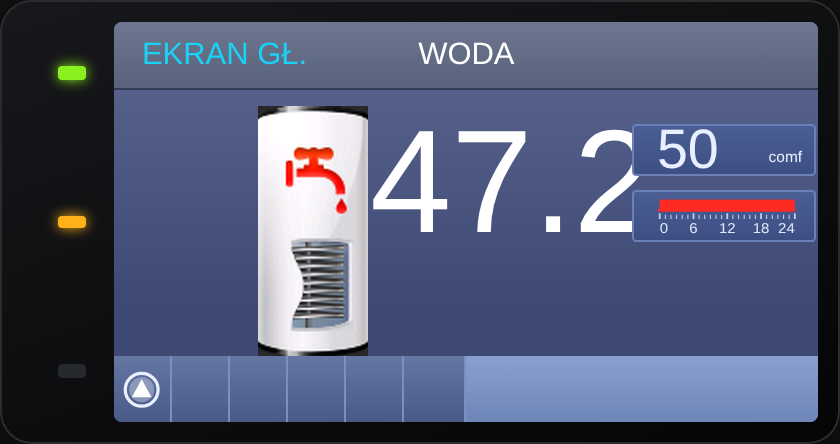
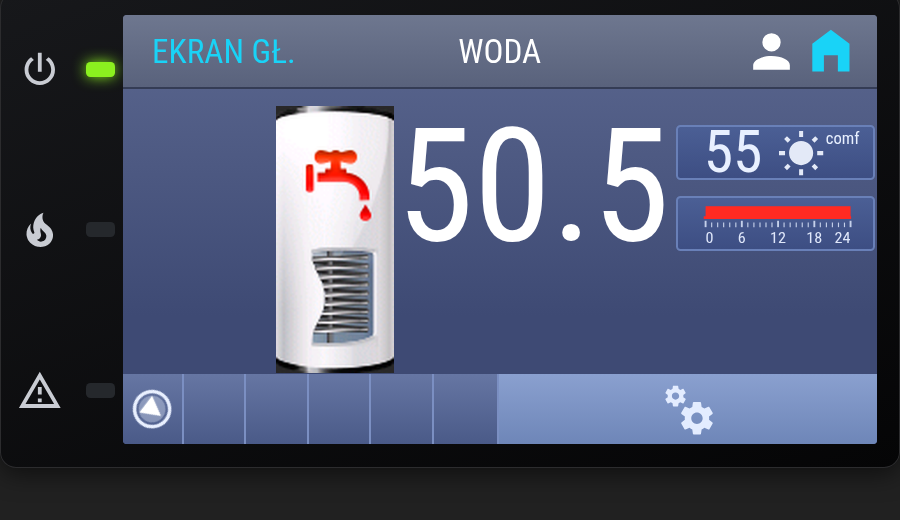
README: nowe zrzuty ekranow (14), szybki start z secrets.yaml
Claude-Session: https://claude.ai/code/session_016ptH2Szcoakmtujhjq9oxA

diff --git a/README.md b/README.md
@@ -8,7 +8,7 @@ Projekt stworzony przez Romana Gorza (pomysł, kierunek, testy na własnej insta
 
 > ⚠ Projekt nieoficjalny – nie zastępuje produktów Estyma. Używasz na własną odpowiedzialność; firmware tylko czyta rejestry kotła, ale podłączenie do magistrali CAN zawsze robisz sam.
 
-> Zrzuty ekranu pochodzą z danych testowych (nie z działającego kotła).
+> Zrzuty ekranu pochodzą z karty lite 2.1 w Home Assistant, z danymi z kotła (karta tylko odczytuje).
 
 | Ekran główny | Paliwo | Ogrzewanie 1 (CO) |
 |---|---|---|
@@ -18,21 +18,52 @@ Projekt stworzony przez Romana Gorza (pomysł, kierunek, testy na własnej insta
 |---|---|---|
 | ![CWU](docs/img/04-water.png) | ![Palnik](docs/img/05-burn.png) | ![Menu](docs/img/06-menu.png) |
 
+| Kocioł | Nastawy palnika | Nastawy CO |
+|---|---|---|
+| ![Kocioł](docs/img/07-boiler.png) | ![Palnik](docs/img/08-burner-settings.png) | ![CO](docs/img/09-heat-settings.png) |
+
+| Nastawy CWU | Informacje | Historia alarmów |
+|---|---|---|
+| ![CWU](docs/img/10-water-settings.png) | ![Info](docs/img/11-info.png) | ![Alarmy](docs/img/12-alarms.png) |
+
+| Harmonogram | Szybkie ustawienia (podgląd) |
+|---|---|
+| ![Harmonogram](docs/img/13-schedule.png) | ![Szybkie](docs/img/14-quick.png) |
+
 ## Spis treści
 1. [Co dostajesz](#co-dostajesz)
-2. [Dolny pasek ekranu głównego](#dolny-pasek-ekranu-głównego)
-3. [Sprzęt](#sprzęt)
-4. [Firmware – instalacja](#firmware--instalacja)
-5. [Karta – instalacja (HACS)](#karta--instalacja-hacs)
-6. [Aktualizacje](#aktualizacje)
-7. [Rozwiązywanie problemów](#rozwiązywanie-problemów)
-8. [Struktura repozytorium](#struktura-repozytorium)
+2. [Szybki start – od zera do działającej karty](#szybki-start--od-zera-do-działającej-karty)
+3. [Dolny pasek ekranu głównego](#dolny-pasek-ekranu-głównego)
+4. [Sprzęt](#sprzęt)
+5. [Firmware – instalacja](#firmware--instalacja)
+6. [Karta – instalacja (HACS)](#karta--instalacja-hacs)
+7. [Aktualizacje](#aktualizacje)
+8. [Rozwiązywanie problemów](#rozwiązywanie-problemów)
+9. [Struktura repozytorium](#struktura-repozytorium)
 
 ## Co dostajesz
 - **Karta** `custom:pelletcan-card-lite`: ekran główny, okno **Paliwo** (zapełnienie zbiornika), **Ogrzewanie 1 (CO)**, **Woda (CWU)**, **Palnik** oraz **Menu** z ekranami Kocioł, Palnik, Ogrzewanie obwód 1, Ciepła woda, Informacje i Alarmy – tylko poziom podstawowy, bez „Poziom menu”. Zero edycji: do ekranów, trybu ogrzewania i harmonogramu można wejść, ale nic nie da się zmienić.
 - **Firmware** w dwóch plikach: `esphome/PelletCAN_lite.yaml` (ten wgrywasz do ESP) i `esphome/PelletCAN_lite_packages.yaml` (rdzeń, ściągany z GitHuba przy kompilacji). Jeden obieg CO, bez usług zapisu.
 
 Potrzebujesz pełnej wersji (zapis nastaw, harmonogramy, test wyjść, historia alarmów)? Zobacz [PelletCAN](https://github.com/GieOeRZet/PelletCAN).
+
+## Szybki start – od zera do działającej karty
+Czego potrzebujesz: Home Assistant z dodatkiem **ESPHome** (Ustawienia → Dodatki), zainstalowanego **HACS**, płytki XIAO ESP32-C6 z modułem CAN (patrz [Sprzęt](#sprzęt)) i kabla USB-C do pierwszego wgrania.
+
+1. **Podłącz sprzęt** do magistrali CAN kotła (CAN-H, CAN-L, masa) i do zasilania 5 V. Kocioł musi mieć włączony panel Igneo Touch.
+2. **Plik `secrets.yaml`** – w ESPHome (przycisk **Secrets** w prawym górnym rogu) wklej i uzupełnij:
+   ```yaml
+   wifi_ssid_iot: "NAZWA_SIECI"                 # sieć 2,4 GHz (ESP32-C6 nie widzi 5 GHz)
+   wifi_pass: "HASLO_WIFI"
+   esp_api_key_tekla_CAN: "KLUCZ_API"           # 32 bajty w base64, patrz niżej
+   ota_pass: "HASLO_OTA"                        # dowolne hasło do aktualizacji przez Wi-Fi
+   ```
+   Klucz API wygenerujesz w terminalu poleceniem `openssl rand -base64 32` albo na stronie <https://esphome.io/components/api.html> (przycisk „generate”). Wzór: [`esphome/secrets.example.yaml`](esphome/secrets.example.yaml). Nazwy kluczy muszą być dokładnie takie, bo odwołuje się do nich plik firmware.
+3. **Nowe urządzenie w ESPHome** → **Skip** (bez kreatora) → wklej całą zawartość [`esphome/PelletCAN_lite.yaml`](esphome/PelletCAN_lite.yaml). Zmień w `substitutions` tylko to, co potrzebne (stały IP, nazwa, antena). Rdzeń firmware pobiera się sam z GitHuba.
+4. **Install → Plug into this computer / Manual download** – pierwsze wgranie przez USB (na XIAO przytrzymaj BOOT przy podłączaniu, jeśli port się nie pojawia). Kolejne aktualizacje idą już przez Wi-Fi.
+5. **Dodaj urządzenie w HA**: Ustawienia → Urządzenia i usługi → ESPHome (zwykle wykrywa się samo; klucz API z `secrets.yaml`). Powinny pojawić się encje „Tekla …”.
+6. **Zainstaluj kartę** przez HACS (sekcja [Karta](#karta--instalacja-hacs)), odśwież przeglądarkę i dodaj kartę `custom:pelletcan-card-lite` do dashboardu.
+7. **Sprawdź**: na ekranie głównym powinna być temperatura kotła i stan pracy; encja „CAN OK” w HA = włączone. Jeśli widzisz „-”, zobacz [Rozwiązywanie problemów](#rozwiązywanie-problemów).
 
 ## Dolny pasek ekranu głównego
 Przyciski na dolnej belce pokazują też stany:
